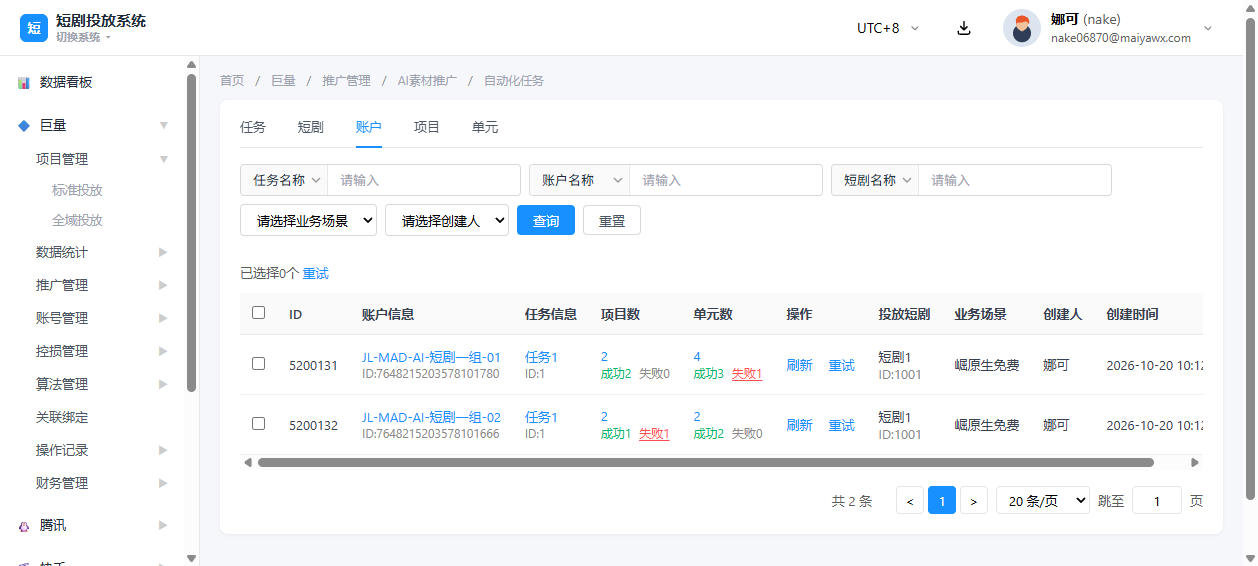
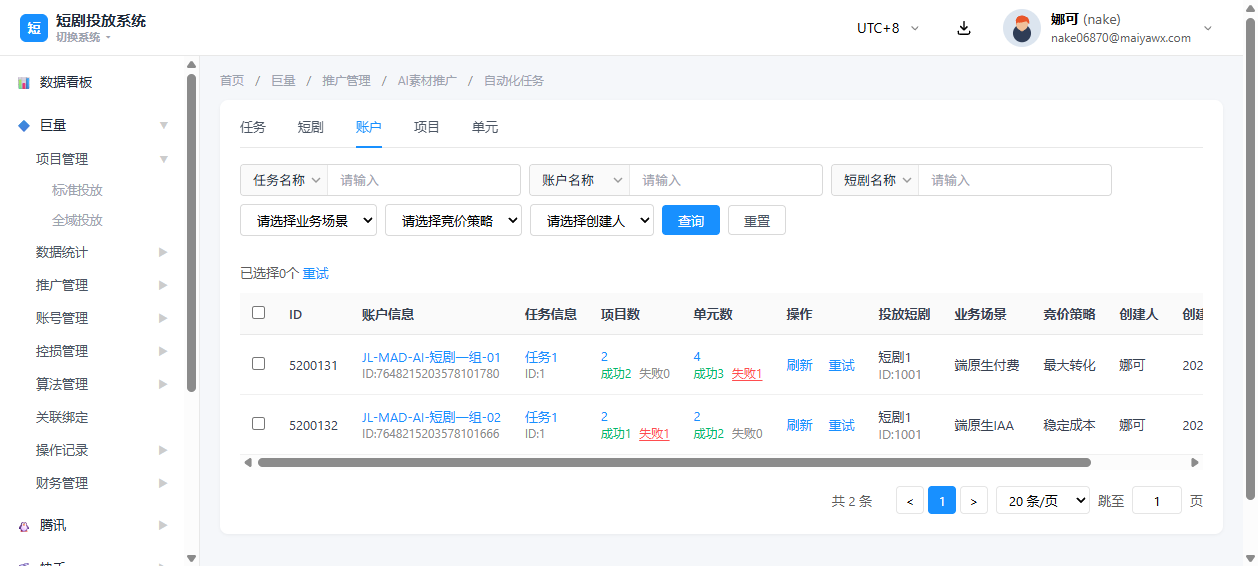
feat(domestic): AI素材推广自动化任务-账户页签业务场景改端原生IAA/付费并新增竞价策略筛选与字段

diff --git a/index.html b/index.html
@@ -1352,7 +1352,13 @@
                   </div>
                   <select class="filter-select">
                     <option value="">请选择业务场景</option>
-                    <option value="fufei">崛原生免费</option>
+                    <option value="dyy-iaa">端原生IAA</option>
+                    <option value="dyy-pay">端原生付费</option>
+                  </select>
+                  <select class="filter-select">
+                    <option value="">请选择竞价策略</option>
+                    <option value="stable-cost">稳定成本</option>
+                    <option value="max-convert">最大转化</option>
                   </select>
                   <select class="filter-select">
                     <option value="">请选择创建人</option>
@@ -1381,6 +1387,7 @@
                           <th>操作</th>
                           <th>投放短剧</th>
                           <th>业务场景</th>
+                          <th>竞价策略</th>
                           <th>创建人</th>
                           <th>创建时间</th>
                         </tr>
@@ -1401,7 +1408,8 @@
                           <td><span class="link">4</span><div class="stat-stack"><div class="stat-row"><span class="stat-success-text">成功3</span><span class="stat-fail-text fail-clickable" onclick="openAiAutoFailDetail(5200131, 'JL-MAD-AI-短剧一组-01', 'unit', 1)">失败1</span></div></div></td>
                           <td><div class="row-actions"><button class="row-action-btn" onclick="refreshAiAutoRow('账户',5200131)">刷新</button> <button class="row-action-btn" onclick="retryAiAutoRow('账户',5200131)">重试</button></div></td>
                           <td>短剧1<br /><span style="color:var(--color-text-tertiary);">ID:1001</span></td>
-                          <td>崛原生免费</td>
+                          <td>端原生付费</td>
+                          <td>最大转化</td>
                           <td>娜可</td>
                           <td>2026-10-20 10:12:33</td>
                         </tr>
@@ -1420,7 +1428,8 @@
                           <td><span class="link">2</span><div class="stat-stack"><div class="stat-row"><span class="stat-success-text">成功2</span><span class="stat-row-empty">失败0</span></div></div></td>
                           <td><div class="row-actions"><button class="row-action-btn" onclick="refreshAiAutoRow('账户',5200132)">刷新</button> <button class="row-action-btn" onclick="retryAiAutoRow('账户',5200132)">重试</button></div></td>
                           <td>短剧1<br /><span style="color:var(--color-text-tertiary);">ID:1001</span></td>
-                          <td>崛原生免费</td>
+                          <td>端原生IAA</td>
+                          <td>稳定成本</td>
                           <td>娜可</td>
                           <td>2026-10-20 10:12:36</td>
                         </tr>
